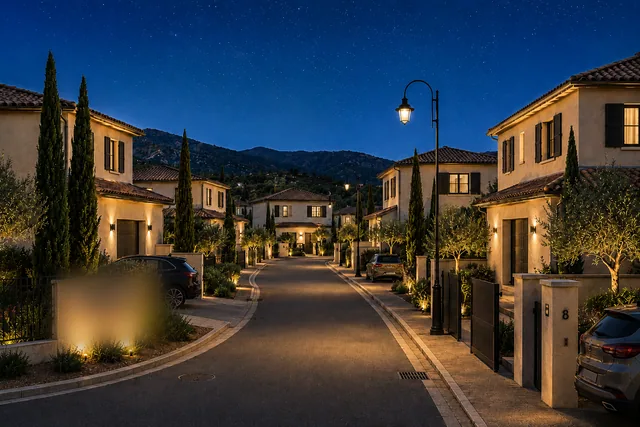
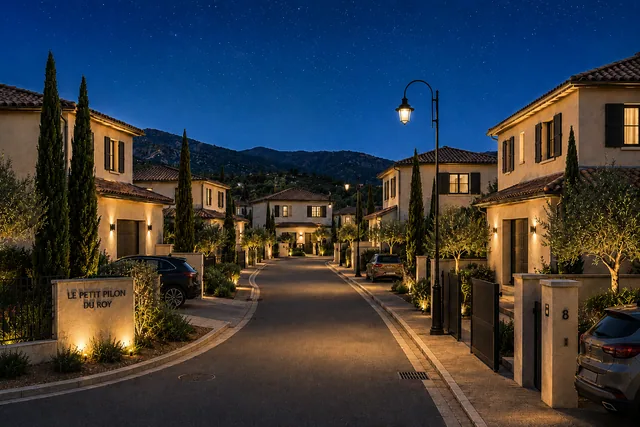
Coherence photo/texte sur tout le site + nouvelle grille Votre maison
index.html :
- Un terrain en Provence : nouvelle photo aerienne golden hour
  (terrain-provence-collines-doree) montrant l environnement boise et
  les collines, plus fidele au texte que la photo de terrasse
  precedente.
- Villa fullimg (art de vivre en Provence) : ajustement du cadrage
  pour montrer la maison entiere, plus coupee au toit.

projet.html :
- Section 01 La vision transformee en grille de 4 photos cliquables
  (exterieur, sejour, chambre, salle de bain), titre Votre maison
  comme vous voulez, lightbox au clic via le systeme existant.
- Section 02 L adresse : remplace par une vraie photo drone
  (DJI_0080) au lieu d une image generee.

galerie.html :
- 7876 m au coeur des collines : nouvelle simulation aerienne
  detouree des 8 lots, presentee en carte stylee (fond dore, ombre)
  plutot qu en plein cadre puisque le detourage n est pas une vraie
  transparence PNG (limite des generateurs IA) - badge photo reelle
  retire au profit de projection illustrative pour rester honnete.
- Nichees dans les collines : remplace par une vraie photo drone
  (DJI_0050). L ancienne photo de cette section (aerial-lotissement-
  collines-gardanne) reste utilisee sur le hero de projet.html.
- Une rue a vivre : remise de la version non flloutee de la photo
  (le panneau LE PETIT PILON DU ROY redevient visible, sur demande
  explicite).
- Mosaique section 01 : DJI_0050 remplace par DJI_0062 (chemin d
  acces) pour eviter un doublon avec la nouvelle section Nichees.
[…]

Changed region(s): [[0.0625, 0.6089, 0.2812, 0.822]]

diff --git a/projet.html b/projet.html
@@ -108,18 +108,34 @@
     <!-- 01 · LA VISION -->
     <section class="bg-creme rule-top">
       <div class="wrap">
-        <div class="split split--6040">
-          <div class="reveal-left manifesto">
-            <span class="kicker"><span class="num">01</span> La vision</span>
-            <p class="manifesto__lead">Huit terrains viabilisés sur une parcelle de 7 876 m², à Biver. Chaque lot est borné, raccordé aux réseaux, prêt à bâtir.</p>
-            <p class="manifesto__text">Le Clos des Zinnias permet à huit familles de construire leur maison dans un cadre préservé, avec des vues dégagées sur les collines. Voirie privée, réseaux complets, libre choix du constructeur.</p>
+        <div class="section-head reveal" style="margin-bottom:clamp(1.75rem,4vw,2.5rem)">
+          <span class="kicker"><span class="num">01</span> La vision</span>
+          <h2 class="section-title chapter-title">Votre maison, comme vous voulez</h2>
+          <p class="lead">Huit terrains viabilisés sur une parcelle de 7 876 m², à Biver. Chaque lot est borné, raccordé aux réseaux, prêt à bâtir : à vous de dessiner la maison qui lui correspond, avec l'architecte et le constructeur de votre choix, dans le respect du règlement de lotissement.</p>
+        </div>
+        <div class="ed-mosaic reveal" data-stagger>
+          <div class="ed-figure is-wide reveal" role="button" tabindex="0" aria-label="Agrandir : jardin paysager et piscine privée · projection illustrative non contractuelle" data-lightbox="images-optimized/villa-piscine-jardin-provencal.webp" data-caption="Jardin paysager et piscine privée · projection illustrative non contractuelle">
+            <picture><source srcset="images-optimized/villa-piscine-jardin-provencal-640.avif 640w, images-optimized/villa-piscine-jardin-provencal-1024.avif 1024w, images-optimized/villa-piscine-jardin-provencal-1536.avif 1536w, images-optimized/villa-piscine-jardin-provencal-2048.avif 2048w, images-optimized/villa-piscine-jardin-provencal.avif 3072w" sizes="(max-width: 900px) 100vw, 66vw" type="image/avif"><source srcset="images-optimized/villa-piscine-jardin-provencal-640.webp 640w, images-optimized/villa-piscine-jardin-provencal-1024.webp 1024w, images-optimized/villa-piscine-jardin-provencal-1536.webp 1536w, images-optimized/villa-piscine-jardin-provencal-2048.webp 2048w, images-optimized/villa-piscine-jardin-provencal.webp 3072w" sizes="(max-width: 900px) 100vw, 66vw" type="image/webp"><img src="images-optimized/villa-piscine-jardin-provencal.webp" srcset="images-optimized/villa-piscine-jardin-provencal-640.webp 640w, images-optimized/villa-piscine-jardin-provencal-1024.webp 1024w, images-optimized/villa-piscine-jardin-provencal-1536.webp 1536w, images-optimized/villa-piscine-jardin-provencal-2048.webp 2048w, images-optimized/villa-piscine-jardin-provencal.webp 3072w" sizes="(max-width: 900px) 100vw, 66vw" alt="Projection illustrative d'un jardin provençal avec piscine privée" width="3072" height="2048" loading="lazy" decoding="async"></picture>
+            <div class="ed-figure__ov"><span class="cap">Extérieur</span></div>
+            <span class="loupe">+</span>
           </div>
-          <div class="reveal-right">
-            <div class="split__media tall img-hover">
-              <picture><source srcset="images-optimized/olivier-provence-pierre-seche-640.avif 640w, images-optimized/olivier-provence-pierre-seche-1024.avif 1024w, images-optimized/olivier-provence-pierre-seche.avif 1122w" sizes="(max-width: 900px) 100vw, 50vw" type="image/avif"><source srcset="images-optimized/olivier-provence-pierre-seche-640.webp 640w, images-optimized/olivier-provence-pierre-seche-1024.webp 1024w, images-optimized/olivier-provence-pierre-seche.webp 1122w" sizes="(max-width: 900px) 100vw, 50vw" type="image/webp"><img src="images-optimized/olivier-provence-pierre-seche.webp" srcset="images-optimized/olivier-provence-pierre-seche-640.webp 640w, images-optimized/olivier-provence-pierre-seche-1024.webp 1024w, images-optimized/olivier-provence-pierre-seche.webp 1122w" sizes="(max-width: 900px) 100vw, 50vw" alt="Olivier centenaire et muret de pierre sèche dans un jardin de Provence" width="1122" height="1402" loading="lazy" decoding="async"></picture>
-            </div>
+          <div class="ed-figure reveal" role="button" tabindex="0" aria-label="Agrandir : le séjour ouvert de plain-pied sur le jardin · projection illustrative non contractuelle" data-lightbox="images-optimized/interieur-sejour-lumineux-piscine.webp" data-caption="Le séjour ouvert de plain-pied sur le jardin · projection illustrative non contractuelle">
+            <picture><source srcset="images-optimized/interieur-sejour-lumineux-piscine-640.avif 640w, images-optimized/interieur-sejour-lumineux-piscine-1024.avif 1024w, images-optimized/interieur-sejour-lumineux-piscine-1536.avif 1536w, images-optimized/interieur-sejour-lumineux-piscine-2048.avif 2048w, images-optimized/interieur-sejour-lumineux-piscine.avif 3072w" sizes="(max-width: 900px) 100vw, 33vw" type="image/avif"><source srcset="images-optimized/interieur-sejour-lumineux-piscine-640.webp 640w, images-optimized/interieur-sejour-lumineux-piscine-1024.webp 1024w, images-optimized/interieur-sejour-lumineux-piscine-1536.webp 1536w, images-optimized/interieur-sejour-lumineux-piscine-2048.webp 2048w, images-optimized/interieur-sejour-lumineux-piscine.webp 3072w" sizes="(max-width: 900px) 100vw, 33vw" type="image/webp"><img src="images-optimized/interieur-sejour-lumineux-piscine.webp" srcset="images-optimized/interieur-sejour-lumineux-piscine-640.webp 640w, images-optimized/interieur-sejour-lumineux-piscine-1024.webp 1024w, images-optimized/interieur-sejour-lumineux-piscine-1536.webp 1536w, images-optimized/interieur-sejour-lumineux-piscine-2048.webp 2048w, images-optimized/interieur-sejour-lumineux-piscine.webp 3072w" sizes="(max-width: 900px) 100vw, 33vw" alt="Projection illustrative d'un séjour lumineux ouvert sur la piscine" width="3072" height="2048" loading="lazy" decoding="async"></picture>
+            <div class="ed-figure__ov"><span class="cap">Séjour</span></div>
+            <span class="loupe">+</span>
+          </div>
+          <div class="ed-figure is-half reveal" role="button" tabindex="0" aria-label="Agrandir : une chambre baignée de lumière · projection illustrative non contractuelle" data-lightbox="images-optimized/amenagement-chambre-lumineuse.webp" data-caption="Une chambre baignée de lumière · projection illustrative non contractuelle">
+            <picture><source srcset="images-optimized/amenagement-chambre-lumineuse-640.avif 640w, images-optimized/amenagement-chambre-lumineuse-1024.avif 1024w, images-optimized/amenagement-chambre-lumineuse-1536.avif 1536w, images-optimized/amenagement-chambre-lumineuse-2048.avif 2048w, images-optimized/amenagement-chambre-lumineuse.avif 3072w" sizes="(max-width: 900px) 100vw, 50vw" type="image/avif"><source srcset="images-optimized/amenagement-chambre-lumineuse-640.webp 640w, images-optimized/amenagement-chambre-lumineuse-1024.webp 1024w, images-optimized/amenagement-chambre-lumineuse-1536.webp 1536w, images-optimized/amenagement-chambre-lumineuse-2048.webp 2048w, images-optimized/amenagement-chambre-lumineuse.webp 3072w" sizes="(max-width: 900px) 100vw, 50vw" type="image/webp"><img src="images-optimized/amenagement-chambre-lumineuse.webp" srcset="images-optimized/amenagement-chambre-lumineuse-640.webp 640w, images-optimized/amenagement-chambre-lumineuse-1024.webp 1024w, images-optimized/amenagement-chambre-lumineuse-1536.webp 1536w, images-optimized/amenagement-chambre-lumineuse-2048.webp 2048w, images-optimized/amenagement-chambre-lumineuse.webp 3072w" sizes="(max-width: 900px) 100vw, 50vw" alt="Projection illustrative d'une chambre lumineuse ouverte sur le jardin" width="3072" height="2048" loading="lazy" decoding="async"></picture>
+            <div class="ed-figure__ov"><span class="cap">Chambre</span></div>
+            <span class="loupe">+</span>
+          </div>
+          <div class="ed-figure is-half reveal" role="button" tabindex="0" aria-label="Agrandir : la salle de bain, douche à l'italienne · projection illustrative non contractuelle" data-lightbox="images-optimized/amenagement-salle-de-bain.webp" data-caption="La salle de bain, douche à l'italienne · projection illustrative non contractuelle">
+            <picture><source srcset="images-optimized/amenagement-salle-de-bain-640.avif 640w, images-optimized/amenagement-salle-de-bain-1024.avif 1024w, images-optimized/amenagement-salle-de-bain.avif 1536w" sizes="(max-width: 900px) 100vw, 50vw" type="image/avif"><source srcset="images-optimized/amenagement-salle-de-bain-640.webp 640w, images-optimized/amenagement-salle-de-bain-1024.webp 1024w, images-optimized/amenagement-salle-de-bain.webp 1536w" sizes="(max-width: 900px) 100vw, 50vw" type="image/webp"><img src="images-optimized/amenagement-salle-de-bain.webp" srcset="images-optimized/amenagement-salle-de-bain-640.webp 640w, images-optimized/amenagement-salle-de-bain-1024.webp 1024w, images-optimized/amenagement-salle-de-bain.webp 1536w" sizes="(max-width: 900px) 100vw, 50vw" alt="Projection illustrative d'une salle de bain avec douche à l'italienne" width="1536" height="1024" loading="lazy" decoding="async"></picture>
+            <div class="ed-figure__ov"><span class="cap">Salle de bain</span></div>
+            <span class="loupe">+</span>
           </div>
         </div>
+        <p class="table-note reveal" style="margin-top:1.25rem;">Visuels d'inspiration, non contractuels · à chacun son projet. Cliquez sur une photo pour l'agrandir.</p>
       </div>
     </section>
 
@@ -129,7 +145,7 @@
         <div class="split">
           <div class="reveal-left">
             <div class="split__media tall img-hover" style="position:relative;">
-              <picture><source srcset="images-optimized/drone-aerial-terrain-enhanced-640.avif 640w, images-optimized/drone-aerial-terrain-enhanced-1024.avif 1024w, images-optimized/drone-aerial-terrain-enhanced-1536.avif 1536w, images-optimized/drone-aerial-terrain-enhanced.avif 1920w" sizes="(max-width: 900px) 100vw, 50vw" type="image/avif"><source srcset="images-optimized/drone-aerial-terrain-enhanced-640.webp 640w, images-optimized/drone-aerial-terrain-enhanced-1024.webp 1024w, images-optimized/drone-aerial-terrain-enhanced-1536.webp 1536w, images-optimized/drone-aerial-terrain-enhanced.webp 1920w" sizes="(max-width: 900px) 100vw, 50vw" type="image/webp"><img src="images-optimized/drone-aerial-terrain-enhanced.webp" srcset="images-optimized/drone-aerial-terrain-enhanced-640.webp 640w, images-optimized/drone-aerial-terrain-enhanced-1024.webp 1024w, images-optimized/drone-aerial-terrain-enhanced-1536.webp 1536w, images-optimized/drone-aerial-terrain-enhanced.webp 1920w" sizes="(max-width: 900px) 100vw, 50vw" alt="Photo drone du terrain du Clos des Zinnias dans son environnement" width="2048" height="1536" loading="lazy" decoding="async"></picture>
+              <picture><source srcset="assets-optimized/DJI_0080-640.avif 640w, assets-optimized/DJI_0080-1024.avif 1024w, assets-optimized/DJI_0080-1536.avif 1536w, assets-optimized/DJI_0080.avif 1920w" sizes="(max-width: 900px) 100vw, 50vw" type="image/avif"><source srcset="assets-optimized/DJI_0080-640.webp 640w, assets-optimized/DJI_0080-1024.webp 1024w, assets-optimized/DJI_0080-1536.webp 1536w, assets-optimized/DJI_0080.webp 1920w" sizes="(max-width: 900px) 100vw, 50vw" type="image/webp"><img src="assets-optimized/DJI_0080.webp" srcset="assets-optimized/DJI_0080-640.webp 640w, assets-optimized/DJI_0080-1024.webp 1024w, assets-optimized/DJI_0080-1536.webp 1536w, assets-optimized/DJI_0080.webp 1920w" sizes="(max-width: 900px) 100vw, 50vw" alt="Photo drone réelle du terrain du Clos des Zinnias et son environnement — Mai 2026" width="4032" height="3024" loading="lazy" decoding="async"></picture>
               <span class="badge-photo">Photo drone réelle — Mai 2026</span>
             </div>
           </div>

diff --git a/style.css b/style.css
@@ -1079,6 +1079,8 @@ table.elegant td:first-child { color: var(--or); font-weight: 500; }
 .fullimg--50 img { height: 50vh; }
 /* Image affichée en entier, sans recadrage (plans, schémas) */
 .fullimg--full img { height: auto; object-fit: contain; }
+/* Recadrage biaisé vers le haut pour garder le toit de la maison visible */
+.fullimg--villa-hero img { object-position: center 20%; }
 .fullimg__cap {
   position: absolute;
   bottom: 1.25rem; left: 1.25rem;
@@ -2397,6 +2399,29 @@ section[data-chapter] .eyebrow::after {
 .ed-figure .loupe:hover { background: var(--or); color: var(--noir); border-color: var(--or); }
 .ed-figure[data-lightbox] { cursor: pointer; }
 .ed-figure[data-lightbox] .ed-figure__ov { pointer-events: none; }
+
+/* ---------- Carte "cutout" — image détourée présentée en carte ---------- */
+.ed-cutout-card {
+  position: relative;
+  background: linear-gradient(155deg, var(--creme), #EFE7D8);
+  border-radius: 20px;
+  box-shadow: 0 18px 44px rgba(0,0,0,0.28);
+  padding: clamp(1rem, 3vw, 2rem);
+  display: flex; align-items: center; justify-content: center;
+  cursor: pointer;
+  transition: transform 0.5s var(--ease), box-shadow 0.5s var(--ease);
+}
+.ed-cutout-card:hover { transform: translateY(-4px); box-shadow: 0 24px 56px rgba(0,0,0,0.34); }
+.ed-cutout-card img { width: 100%; height: auto; object-fit: contain; display: block; }
+.ed-cutout-card .loupe {
+  position: absolute; top: 1rem; right: 1rem; z-index: 1;
+  width: 40px; height: 40px; border-radius: 50%;
+  display: flex; align-items: center; justify-content: center;
+  border: 1px solid rgba(12,12,10,0.25); color: var(--noir);
+  opacity: 0; transform: scale(0.85);
+  transition: opacity 0.3s var(--ease), transform 0.3s var(--ease);
+}
+.ed-cutout-card:hover .loupe { opacity: 1; transform: scale(1); }
 
 /* ---------- Feature : image + note décalée (alternance) ---------- */
 .ed-feature { display: grid; grid-template-columns: 1fr; gap: 1.5rem; }

diff --git a/galerie.html b/galerie.html
@@ -137,9 +137,8 @@
         </header>
 
         <div class="ed-feature reveal">
-          <div class="ed-feature__media ed-figure" role="button" tabindex="0" aria-label="Agrandir : le terrain du Clos des Zinnias — photo drone, mai 2026" data-lightbox="images-optimized/drone-aerial-terrain-enhanced.webp" data-caption="Le terrain du Clos des Zinnias — photo drone, mai 2026">
-            <picture><source srcset="images-optimized/drone-aerial-terrain-enhanced-640.avif 640w, images-optimized/drone-aerial-terrain-enhanced-1024.avif 1024w, images-optimized/drone-aerial-terrain-enhanced-1536.avif 1536w, images-optimized/drone-aerial-terrain-enhanced.avif 1920w" sizes="100vw" type="image/avif"><source srcset="images-optimized/drone-aerial-terrain-enhanced-640.webp 640w, images-optimized/drone-aerial-terrain-enhanced-1024.webp 1024w, images-optimized/drone-aerial-terrain-enhanced-1536.webp 1536w, images-optimized/drone-aerial-terrain-enhanced.webp 1920w" sizes="100vw" type="image/webp"><img src="images-optimized/drone-aerial-terrain-enhanced.webp" srcset="images-optimized/drone-aerial-terrain-enhanced-640.webp 640w, images-optimized/drone-aerial-terrain-enhanced-1024.webp 1024w, images-optimized/drone-aerial-terrain-enhanced-1536.webp 1536w, images-optimized/drone-aerial-terrain-enhanced.webp 1920w" sizes="100vw" alt="Vue drone du terrain du Clos des Zinnias à Biver en mai 2026" width="2048" height="1536" loading="lazy" decoding="async"></picture>
-            <span class="ed-tag ed-tag--real">Photo réelle · Mai 2026</span>
+          <div class="ed-feature__media ed-cutout-card" role="button" tabindex="0" aria-label="Agrandir : simulation aérienne des 8 lots aménagés" data-lightbox="images-optimized/plan-aerien-lotissement-decoupe.webp" data-caption="Simulation aérienne des 8 lots aménagés — projection illustrative non contractuelle">
+            <picture><source srcset="images-optimized/plan-aerien-lotissement-decoupe-640.avif 640w, images-optimized/plan-aerien-lotissement-decoupe-1024.avif 1024w, images-optimized/plan-aerien-lotissement-decoupe-1536.avif 1536w, images-optimized/plan-aerien-lotissement-decoupe-2048.avif 2048w, images-optimized/plan-aerien-lotissement-decoupe.avif 2896w" sizes="(max-width: 900px) 100vw, 50vw" type="image/avif"><source srcset="images-optimized/plan-aerien-lotissement-decoupe-640.webp 640w, images-optimized/plan-aerien-lotissement-decoupe-1024.webp 1024w, images-optimized/plan-aerien-lotissement-decoupe-1536.webp 1536w, images-optimized/plan-aerien-lotissement-decoupe-2048.webp 2048w, images-optimized/plan-aerien-lotissement-decoupe.webp 2896w" sizes="(max-width: 900px) 100vw, 50vw" type="image/webp"><img src="images-optimized/plan-aerien-lotissement-decoupe.webp" srcset="images-optimized/plan-aerien-lotissement-decoupe-640.webp 640w, images-optimized/plan-aerien-lotissement-decoupe-1024.webp 1024w, images-optimized/plan-aerien-lotissement-decoupe-1536.webp 1536w, images-optimized/plan-aerien-lotissement-decoupe-2048.webp 2048w, images-optimized/plan-aerien-lotissement-decoupe.webp 2896w" sizes="(max-width: 900px) 100vw, 50vw" alt="Simulation aérienne détourée des 8 lots aménagés du Clos des Zinnias — projection illustrative non contractuelle" width="2896" height="2172" loading="lazy" decoding="async"></picture>
             <span class="loupe">+</span>
           </div>
           <div class="ed-feature__note">
@@ -192,9 +191,9 @@
             <div class="ed-figure__ov"><span class="cap"><span class="n">08</span>Le terrain vu du zénith</span></div>
             <span class="loupe">+</span>
           </div>
-          <div class="ed-figure is-half reveal" role="button" tabindex="0" aria-label="Agrandir : le terrain et les massifs" data-lightbox="assets-optimized/DJI_0050.webp" data-caption="Le terrain et les massifs">
-            <picture><source srcset="assets-optimized/DJI_0050-640.avif 640w, assets-optimized/DJI_0050-1024.avif 1024w, assets-optimized/DJI_0050-1536.avif 1536w, assets-optimized/DJI_0050.avif 1920w" sizes="(max-width: 900px) 100vw, 50vw" type="image/avif"><source srcset="assets-optimized/DJI_0050-640.webp 640w, assets-optimized/DJI_0050-1024.webp 1024w, assets-optimized/DJI_0050-1536.webp 1536w, assets-optimized/DJI_0050.webp 1920w" sizes="(max-width: 900px) 100vw, 50vw" type="image/webp"><img src="assets-optimized/DJI_0050.webp" srcset="assets-optimized/DJI_0050-640.webp 640w, assets-optimized/DJI_0050-1024.webp 1024w, assets-optimized/DJI_0050-1536.webp 1536w, assets-optimized/DJI_0050.webp 1920w" sizes="(max-width: 900px) 100vw, 50vw" alt="Le terrain et les massifs au loin" width="4032" height="3024" loading="lazy" decoding="async"></picture>
-            <div class="ed-figure__ov"><span class="cap"><span class="n">09</span>Le terrain et les massifs</span></div>
+          <div class="ed-figure is-half reveal" role="button" tabindex="0" aria-label="Agrandir : le chemin d'accès au terrain" data-lightbox="assets-optimized/DJI_0062.webp" data-caption="Le chemin d'accès au terrain">
+            <picture><source srcset="assets-optimized/DJI_0062-640.avif 640w, assets-optimized/DJI_0062-1024.avif 1024w, assets-optimized/DJI_0062-1536.avif 1536w, assets-optimized/DJI_0062.avif 1920w" sizes="(max-width: 900px) 100vw, 50vw" type="image/avif"><source srcset="assets-optimized/DJI_0062-640.webp 640w, assets-optimized/DJI_0062-1024.webp 1024w, assets-optimized/DJI_0062-1536.webp 1536w, assets-optimized/DJI_0062.webp 1920w" sizes="(max-width: 900px) 100vw, 50vw" type="image/webp"><img src="assets-optimized/DJI_0062.webp" srcset="assets-optimized/DJI_0062-640.webp 640w, assets-optimized/DJI_0062-1024.webp 1024w, assets-optimized/DJI_0062-1536.webp 1536w, assets-optimized/DJI_0062.webp 1920w" sizes="(max-width: 900px) 100vw, 50vw" alt="Le chemin d'accès bordé de verdure vers le terrain" width="1920" height="1440" loading="lazy" decoding="async"></picture>
+            <div class="ed-figure__ov"><span class="cap"><span class="n">09</span>Le chemin d'accès</span></div>
             <span class="loupe">+</span>
           </div>
           <div class="ed-figure reveal" role="button" tabindex="0" aria-label="Agrandir : approche par le nord" data-lightbox="assets-optimized/DJI_0044.webp" data-caption="Approche par le nord">
@@ -260,8 +259,8 @@
 
       <div class="wrap">
         <div class="ed-feature ed-feature--rev reveal">
-          <div class="ed-feature__media ed-figure" role="button" tabindex="0" aria-label="Agrandir : quartier de villas dans les collines de Biver, photo drone" data-lightbox="images-optimized/aerial-lotissement-collines-gardanne.webp" data-caption="Un quartier de villas dans les collines de Biver — photo drone">
-            <picture><source srcset="images-optimized/aerial-lotissement-collines-gardanne-640.avif 640w, images-optimized/aerial-lotissement-collines-gardanne-1024.avif 1024w, images-optimized/aerial-lotissement-collines-gardanne-1536.avif 1536w, images-optimized/aerial-lotissement-collines-gardanne.avif 2048w" sizes="100vw" type="image/avif"><source srcset="images-optimized/aerial-lotissement-collines-gardanne-640.webp 640w, images-optimized/aerial-lotissement-collines-gardanne-1024.webp 1024w, images-optimized/aerial-lotissement-collines-gardanne-1536.webp 1536w, images-optimized/aerial-lotissement-collines-gardanne.webp 2048w" sizes="100vw" type="image/webp"><img src="images-optimized/aerial-lotissement-collines-gardanne.webp" srcset="images-optimized/aerial-lotissement-collines-gardanne-640.webp 640w, images-optimized/aerial-lotissement-collines-gardanne-1024.webp 1024w, images-optimized/aerial-lotissement-collines-gardanne-1536.webp 1536w, images-optimized/aerial-lotissement-collines-gardanne.webp 2048w" sizes="100vw" alt="Vue aérienne d'un quartier de villas dans les collines de Biver, photo drone" width="2048" height="1368" loading="lazy" decoding="async"></picture>
+          <div class="ed-feature__media ed-figure" role="button" tabindex="0" aria-label="Agrandir : le terrain et les massifs environnants, photo drone" data-lightbox="assets-optimized/DJI_0050.webp" data-caption="Le terrain et les massifs environnants — photo drone">
+            <picture><source srcset="assets-optimized/DJI_0050-640.avif 640w, assets-optimized/DJI_0050-1024.avif 1024w, assets-optimized/DJI_0050-1536.avif 1536w, assets-optimized/DJI_0050.avif 1920w" sizes="100vw" type="image/avif"><source srcset="assets-optimized/DJI_0050-640.webp 640w, assets-optimized/DJI_0050-1024.webp 1024w, assets-optimized/DJI_0050-1536.webp 1536w, assets-optimized/DJI_0050.webp 1920w" sizes="100vw" type="image/webp"><img src="assets-optimized/DJI_0050.webp" srcset="assets-optimized/DJI_0050-640.webp 640w, assets-optimized/DJI_0050-1024.webp 1024w, assets-optimized/DJI_0050-1536.webp 1536w, assets-optimized/DJI_0050.webp 1920w" sizes="100vw" alt="Vue aérienne du terrain et des massifs environnants à Biver, photo drone" width="4032" height="3024" loading="lazy" decoding="async"></picture>
             <span class="ed-tag ed-tag--real">Photo drone · secteur</span>
             <span class="loupe">+</span>
           </div>

diff --git a/index.html b/index.html
@@ -200,7 +200,7 @@
       <div class="wrap">
         <div class="split">
           <div class="split__media tall img-hover reveal-left">
-            <picture><source srcset="images-optimized/amenagement-terrasse-repas-640.avif 640w, images-optimized/amenagement-terrasse-repas-1024.avif 1024w, images-optimized/amenagement-terrasse-repas.avif 1536w" sizes="(max-width: 900px) 100vw, 50vw" type="image/avif"><source srcset="images-optimized/amenagement-terrasse-repas-640.webp 640w, images-optimized/amenagement-terrasse-repas-1024.webp 1024w, images-optimized/amenagement-terrasse-repas.webp 1536w" sizes="(max-width: 900px) 100vw, 50vw" type="image/webp"><img src="images-optimized/amenagement-terrasse-repas.webp" srcset="images-optimized/amenagement-terrasse-repas-640.webp 640w, images-optimized/amenagement-terrasse-repas-1024.webp 1024w, images-optimized/amenagement-terrasse-repas.webp 1536w" sizes="(max-width: 900px) 100vw, 50vw" alt="Terrasse aménagée pour le repas en extérieur — projection illustrative" width="1536" height="1024" loading="lazy" decoding="async"></picture>
+            <picture><source srcset="images-optimized/terrain-provence-collines-doree-640.avif 640w, images-optimized/terrain-provence-collines-doree-1024.avif 1024w, images-optimized/terrain-provence-collines-doree-1536.avif 1536w, images-optimized/terrain-provence-collines-doree-2048.avif 2048w, images-optimized/terrain-provence-collines-doree.avif 3344w" sizes="(max-width: 900px) 100vw, 50vw" type="image/avif"><source srcset="images-optimized/terrain-provence-collines-doree-640.webp 640w, images-optimized/terrain-provence-collines-doree-1024.webp 1024w, images-optimized/terrain-provence-collines-doree-1536.webp 1536w, images-optimized/terrain-provence-collines-doree-2048.webp 2048w, images-optimized/terrain-provence-collines-doree.webp 3344w" sizes="(max-width: 900px) 100vw, 50vw" type="image/webp"><img src="images-optimized/terrain-provence-collines-doree.webp" srcset="images-optimized/terrain-provence-collines-doree-640.webp 640w, images-optimized/terrain-provence-collines-doree-1024.webp 1024w, images-optimized/terrain-provence-collines-doree-1536.webp 1536w, images-optimized/terrain-provence-collines-doree-2048.webp 2048w, images-optimized/terrain-provence-collines-doree.webp 3344w" sizes="(max-width: 900px) 100vw, 50vw" alt="Environnement boisé et vallonné du Clos des Zinnias, lumière dorée sur les collines — visualisation non contractuelle" width="3344" height="1882" loading="lazy" decoding="async"></picture>
           </div>
           <div class="reveal-right">
             <span class="label eyebrow">Environnement</span>
@@ -291,7 +291,7 @@
 
     <!-- VILLA -->
     <section class="bg-creme rule-top" style="padding-block:0;">
-      <div class="fullimg reveal reveal-img kenburns">
+      <div class="fullimg fullimg--villa-hero reveal reveal-img kenburns">
         <picture><source srcset="images-optimized/villa-piscine-jardin-provencal-640.avif 640w, images-optimized/villa-piscine-jardin-provencal-1024.avif 1024w, images-optimized/villa-piscine-jardin-provencal-1536.avif 1536w, images-optimized/villa-piscine-jardin-provencal-2048.avif 2048w, images-optimized/villa-piscine-jardin-provencal.avif 3072w" sizes="100vw" type="image/avif"><source srcset="images-optimized/villa-piscine-jardin-provencal-640.webp 640w, images-optimized/villa-piscine-jardin-provencal-1024.webp 1024w, images-optimized/villa-piscine-jardin-provencal-1536.webp 1536w, images-optimized/villa-piscine-jardin-provencal-2048.webp 2048w, images-optimized/villa-piscine-jardin-provencal.webp 3072w" sizes="100vw" type="image/webp"><img src="images-optimized/villa-piscine-jardin-provencal.webp" srcset="images-optimized/villa-piscine-jardin-provencal-640.webp 640w, images-optimized/villa-piscine-jardin-provencal-1024.webp 1024w, images-optimized/villa-piscine-jardin-provencal-1536.webp 1536w, images-optimized/villa-piscine-jardin-provencal-2048.webp 2048w, images-optimized/villa-piscine-jardin-provencal.webp 3072w" sizes="100vw" alt="Piscine et jardin provençal dans la lumière du soir — visualisation non contractuelle" width="3072" height="2048" loading="lazy" decoding="async"></picture>
         <span class="fullimg__cap">L'art de vivre en Provence · visualisation non contractuelle</span>
       </div>